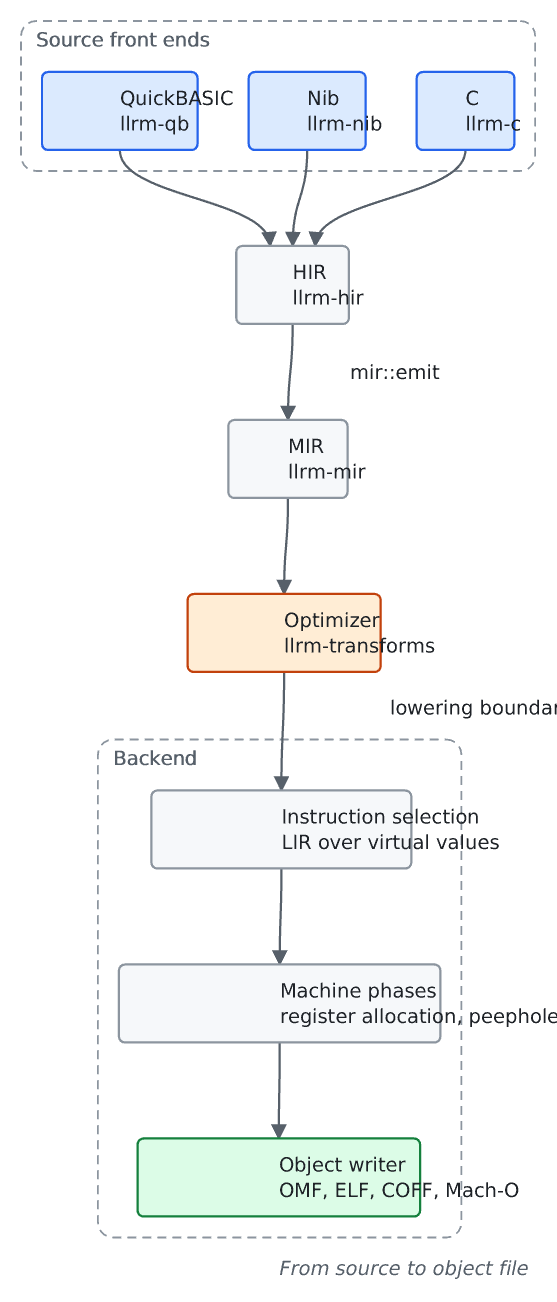
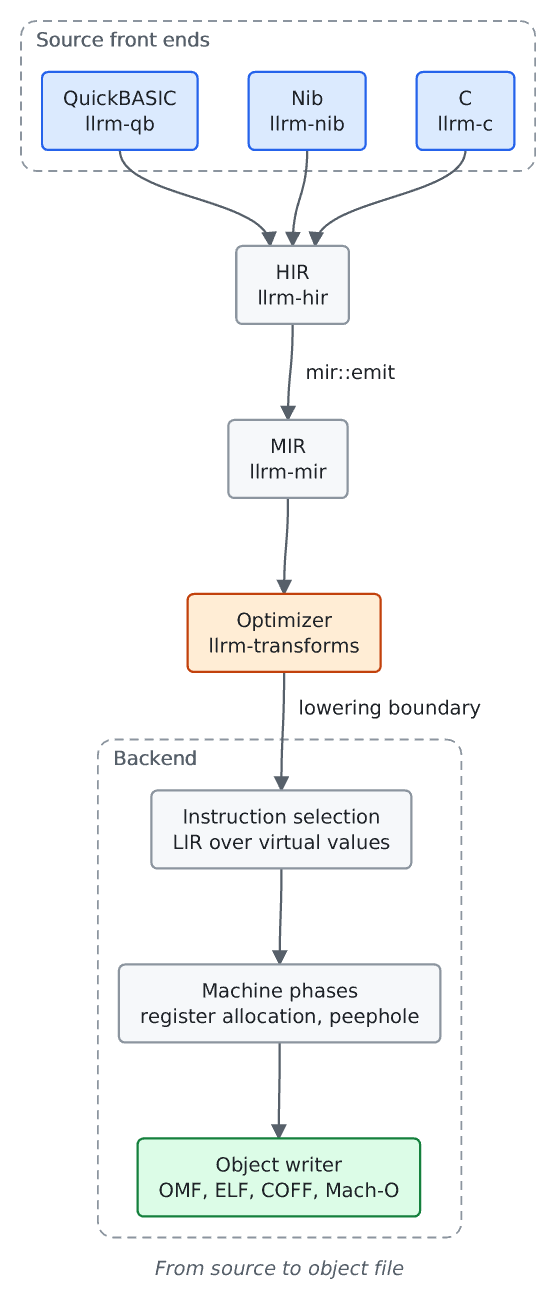
fix(docs): the rasteriser honours text-anchor; lane figures make room for multi-line labels

diff --git a/tools/docsbuild/test_raster.py b/tools/docsbuild/test_raster.py
@@ -3,10 +3,12 @@ import math
 import re
 import struct
 import zlib
+from pathlib import Path
 
 from docsbuild import figures, png, raster, ttf
 
 WHITE = (255, 255, 255)
+FIGURES = Path(__file__).resolve().parents[2] / "docs" / "assets" / "figures"
 
 
 def decode(data):
@@ -104,14 +106,14 @@ def test_text_draws_ink_inside_its_box_and_nowhere_else():
 
 def test_text_is_centred_and_right_aligned_on_its_anchor():
     width = ttf.font().width("Wave", raster.FONT_SIZE)
-    mid = decode(raster.render_png(svg('<text class="t m" x="20" y="15">Wave</text>')))[3]
-    end = decode(raster.render_png(svg('<text class="t x" x="38" y="15">Wave</text>')))[3]
+    mid = decode(raster.render_png(svg('<text class="t" text-anchor="middle" x="20" y="15">Wave</text>')))[3]
+    end = decode(raster.render_png(svg('<text class="t" text-anchor="end" x="38" y="15">Wave</text>')))[3]
     assert ink(mid, 20 - width / 2 - 1, 0, 20 + width / 2 + 1, 20) > 40 and ink(mid, 0, 0, 20 - width / 2 - 1, 20) == 0
     assert ink(end, 38 - width - 1, 0, 40, 20) > 40 and ink(end, 0, 0, 38 - width - 1, 20) == 0
 
 
 def test_a_label_halo_clears_the_line_behind_the_text():
-    body = '<path class="e" d="M2 10H38"/><text class="t lbl m" x="20" y="14">M</text>'
+    body = '<path class="e" d="M2 10H38"/><text class="t lbl" text-anchor="middle" x="20" y="14">M</text>'
     rows = decode(raster.render_png(svg(body)))[3]
     assert px(rows, 14.8, 10) == WHITE  # the halo wipes the line beside the letter
     assert px(rows, 4, 10) != WHITE
@@ -151,3 +153,51 @@ def test_figure_widths_use_the_same_metrics_as_the_drawn_text():
     node = next(b for b in fig.boxes if b.kind == "node")
     assert abs(node.w - (ttf.font().width("Instruction selection", 13) + 2 * figures.PAD_X)) < 0.5
     assert re.search(r"Instruction selection", fig.svg)
+
+
+def ink_box(rows):
+    xs = [x for r in rows for x, p in enumerate(r) if p != WHITE]
+    return min(xs) / raster.SCALE, (max(xs) + 1) / raster.SCALE
+
+
+def test_middle_anchored_ink_is_centred_on_x_and_end_anchored_ink_ends_there():
+    """The anchor was ignored: every string started at its x, so centred labels overflowed their boxes."""
+    mid = decode(raster.render_png(svg('<text class="t" text-anchor="middle" x="30" y="15">HOH</text>', 60, 24)))[3]
+    lo, hi = ink_box(mid)
+    assert abs((lo + hi) / 2 - 30) <= 1
+    end = decode(raster.render_png(svg('<text class="t" text-anchor="end" x="50" y="15">HOH</text>', 60, 24)))[3]
+    assert abs(ink_box(end)[1] - 50) <= 1.5
+
+
+def test_each_line_of_a_label_is_centred_on_its_own_width():
+    body = (
+        '<text class="t" text-anchor="middle" x="30" y="12">HOHOHO</text>'
+        '<text class="t" text-anchor="middle" x="30" y="29">HOH</text>'
+    )
+    rows = decode(raster.render_png(svg(body, 60, 34)))[3]
+    cut = round(20 * raster.SCALE)
+    for part in (rows[:cut], rows[cut:]):
+        lo, hi = ink_box(part)
+        assert abs((lo + hi) / 2 - 30) <= 1
+
+
+def test_a_node_label_sits_inside_its_node_box():
+    fig = figures.build('kind: graph\nnode A "Instruction selection\\nLIR over virtual values"')
+    rows = decode(raster.render_png(fig.svg))[3]
+    vx, vy, _, _ = fig.viewbox
+    node = next(b for b in fig.boxes if b.kind == "node")
+    s = raster.SCALE
+    inside = [row[round((node.x - vx + 2) * s) : round((node.x + node.w - vx - 2) * s)] for row in rows[round((node.y - vy + 2) * s) : round((node.y + node.h - vy - 2) * s)]]
+    lo, hi = ink_box(inside)
+    assert abs((lo + hi) / 2 - (node.w - 4) / 2) <= 1.5
+
+
+def test_no_figure_of_the_docs_draws_to_the_edge_of_its_image():
+    """Captions and labels were cut at the right edge: the canvas must hold all the text."""
+    root = FIGURES
+    figs = sorted(root.glob("*.fig"))
+    assert figs
+    for f in figs:
+        rows = decode(raster.render_png(figures.render(f.read_text(encoding="utf-8"))))[3]
+        edges = [rows[0], rows[-1], [r[0] for r in rows], [r[-1] for r in rows]]
+        assert all(p == WHITE for e in edges for p in e), f.name

diff --git a/tools/docsbuild/figures.py b/tools/docsbuild/figures.py
@@ -886,7 +886,7 @@ def _lanes(opts, body, cv: Canvas, pre: str) -> str:
     order = list(lanes)
     lw = max(tw(v) for v in lanes.values()) + 20
     x0 = lw
-    gap = 26 if msgs else 10
+    gap = max(26, max(nlines(m[4]) for m in msgs) * LH + 8) if msgs else 10
     SH = 26
     layout = {}
     y = 0.0
@@ -903,7 +903,8 @@ def _lanes(opts, body, cv: Canvas, pre: str) -> str:
             else:
                 rowsend.append(s[3])
                 place[s[0]] = len(rowsend) - 1
-        markrow = 26 if any(m[1] == lid for m in marks) else 0
+        lines = max((nlines(m[3]) for m in marks if m[1] == lid), default=0)
+        markrow = max(26, 7 + lines * LH) if lines else 0
         h = max(40, 8 + markrow + len(rowsend) * SH + 8)
         layout[lid] = (y, h, markrow, place)
         y += h + gap
@@ -948,7 +949,7 @@ def _lanes(opts, body, cv: Canvas, pre: str) -> str:
             gy = ay - gap / 2
         cv.grow(x, ys, x, ye)
         cv.add(f'<path class="{ecls("dash" if kind == "ret" else "")}" d="M{fmt(x)} {fmt(ys)}V{fmt(ye)}" marker-end="url(#{pre}-ar)"/>')
-        t = cv.text(x + 8, gy - LH / 2, label, "start", "t lbl")
+        t = cv.text(x + 8, gy - nlines(label) * LH / 2, label, "start", "t lbl")
         cv.fig.labels.append(Box("label", f"msg{no}", t.x0, t.y0, t.x1 - t.x0, t.y1 - t.y0))
     if ticks:
         ay = total + 10

diff --git a/tools/docsbuild/test_figures.py b/tools/docsbuild/test_figures.py
@@ -374,3 +374,18 @@ def test_edge_label_crossing_a_group_border_keeps_clear_of_it():
         'edge A -> B\nedge B -> C "lowering boundary"\nedge C -> D\ngroup back "Backend": C D\n'
     )
     check_invariants(build(spec))
+
+
+def test_lanes_make_room_for_multiline_mark_and_message_labels():
+    """A three-line mark label ran over the axis and the lane below; a four-line message label over a lane."""
+    spec = (
+        'kind: lanes\nlane a "a"\nlane b "b"\ntick 1 "one"\ntick 2 "two"\n'
+        'mark b 1 "l1\\nl2\\nl3"\nmsg a b 2 "m1\\nm2\\nm3\\nm4" kind=ret\n'
+    )
+    fig = build(spec)
+    lanes = {b.id: b for b in fig.boxes if b.kind == "lane"}
+    for t in fig.texts:
+        if t.text.startswith("l1"):
+            assert t.y1 <= lanes["b"].y + lanes["b"].h
+        if t.text.startswith("m1"):
+            assert t.y0 >= lanes["a"].y + lanes["a"].h and t.y1 <= lanes["b"].y

diff --git a/tools/docsbuild/raster.py b/tools/docsbuild/raster.py
@@ -505,7 +505,9 @@ def draw(svg: str, indexed: bool) -> Canvas:
             if ("marker-end" in st or el.get("marker-end")) and subs:
                 _arrow(cv, subs, st, float(st.get("stroke-width", "1")) * SCALE)
         elif tag == "text":
-            draw_text(cv, el.text or "", float(el.get("x")), float(el.get("y")), "end" if "x" in el.get("class", "").split() else "middle" if "m" in el.get("class", "").split() else "start", st, vx, vy)
+            cls = el.get("class", "").split()
+            anchor = el.get("text-anchor") or ("end" if "x" in cls else "middle" if "m" in cls else "start")
+            draw_text(cv, el.text or "", float(el.get("x")), float(el.get("y")), anchor, st, vx, vy)
     return cv
 
 
